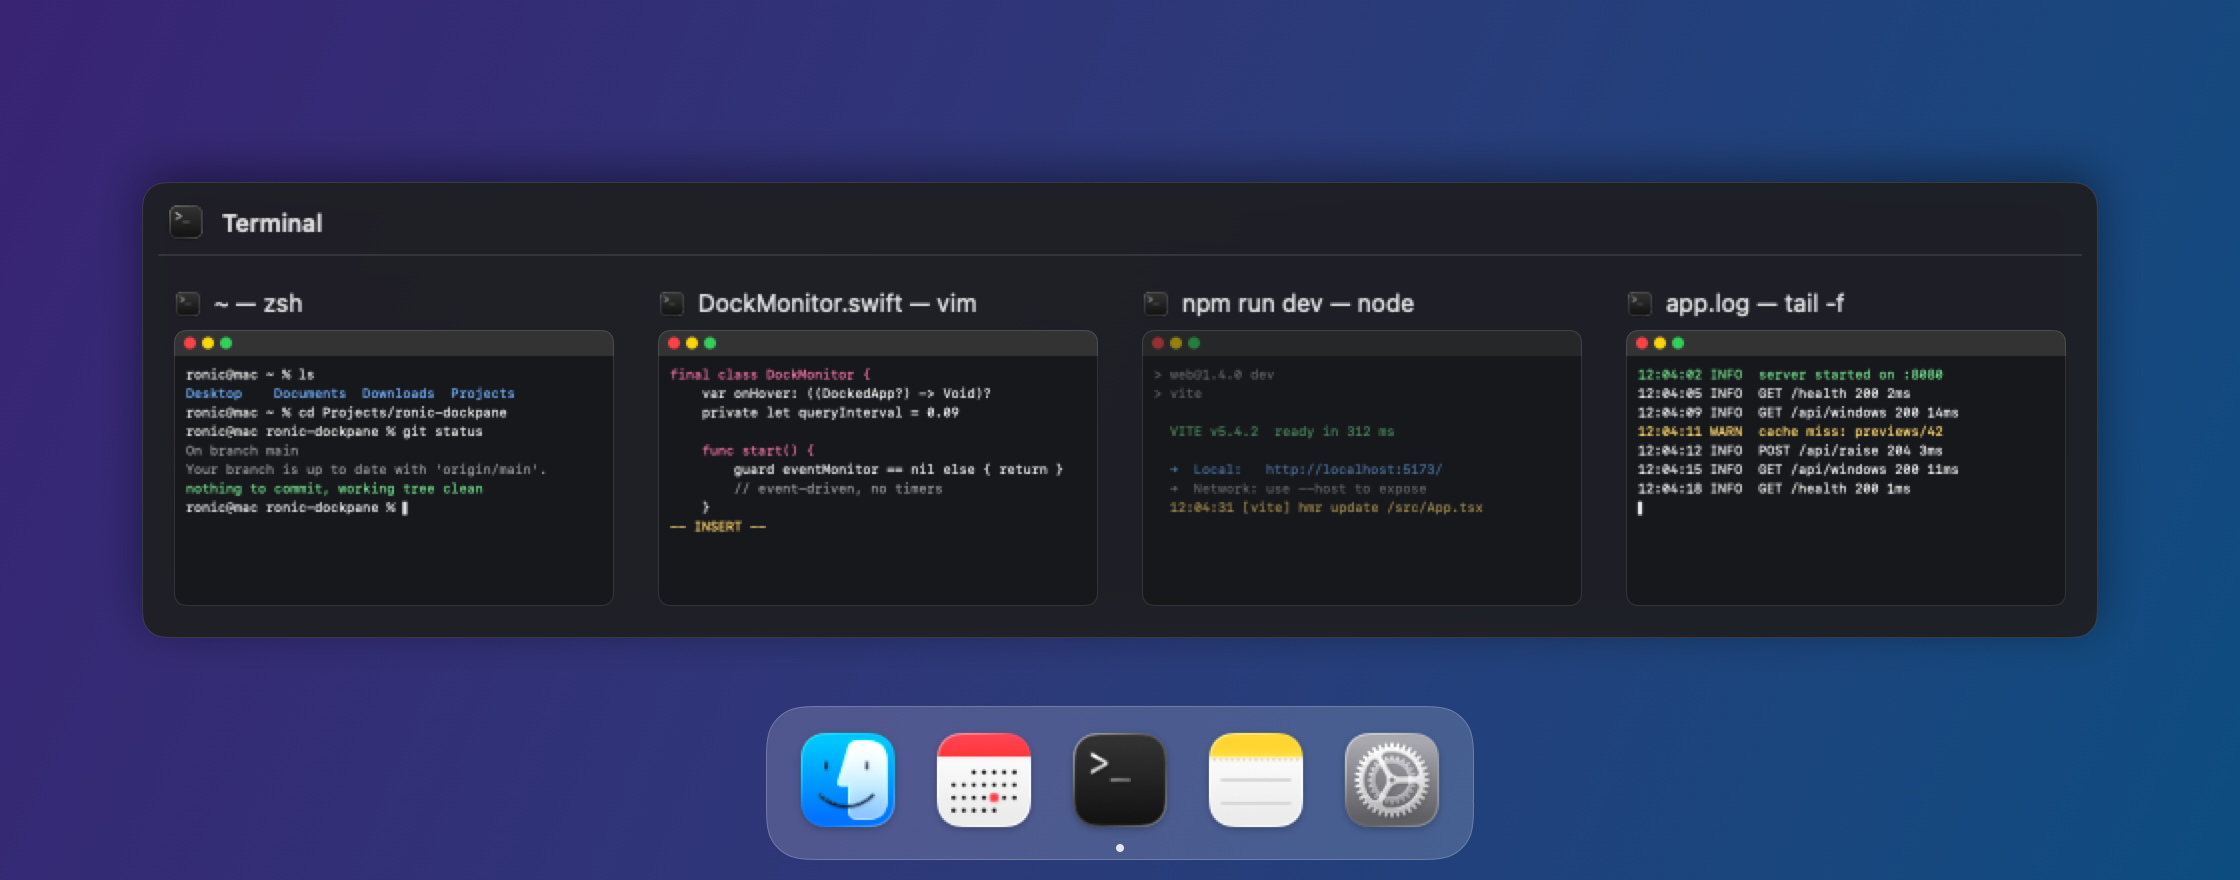
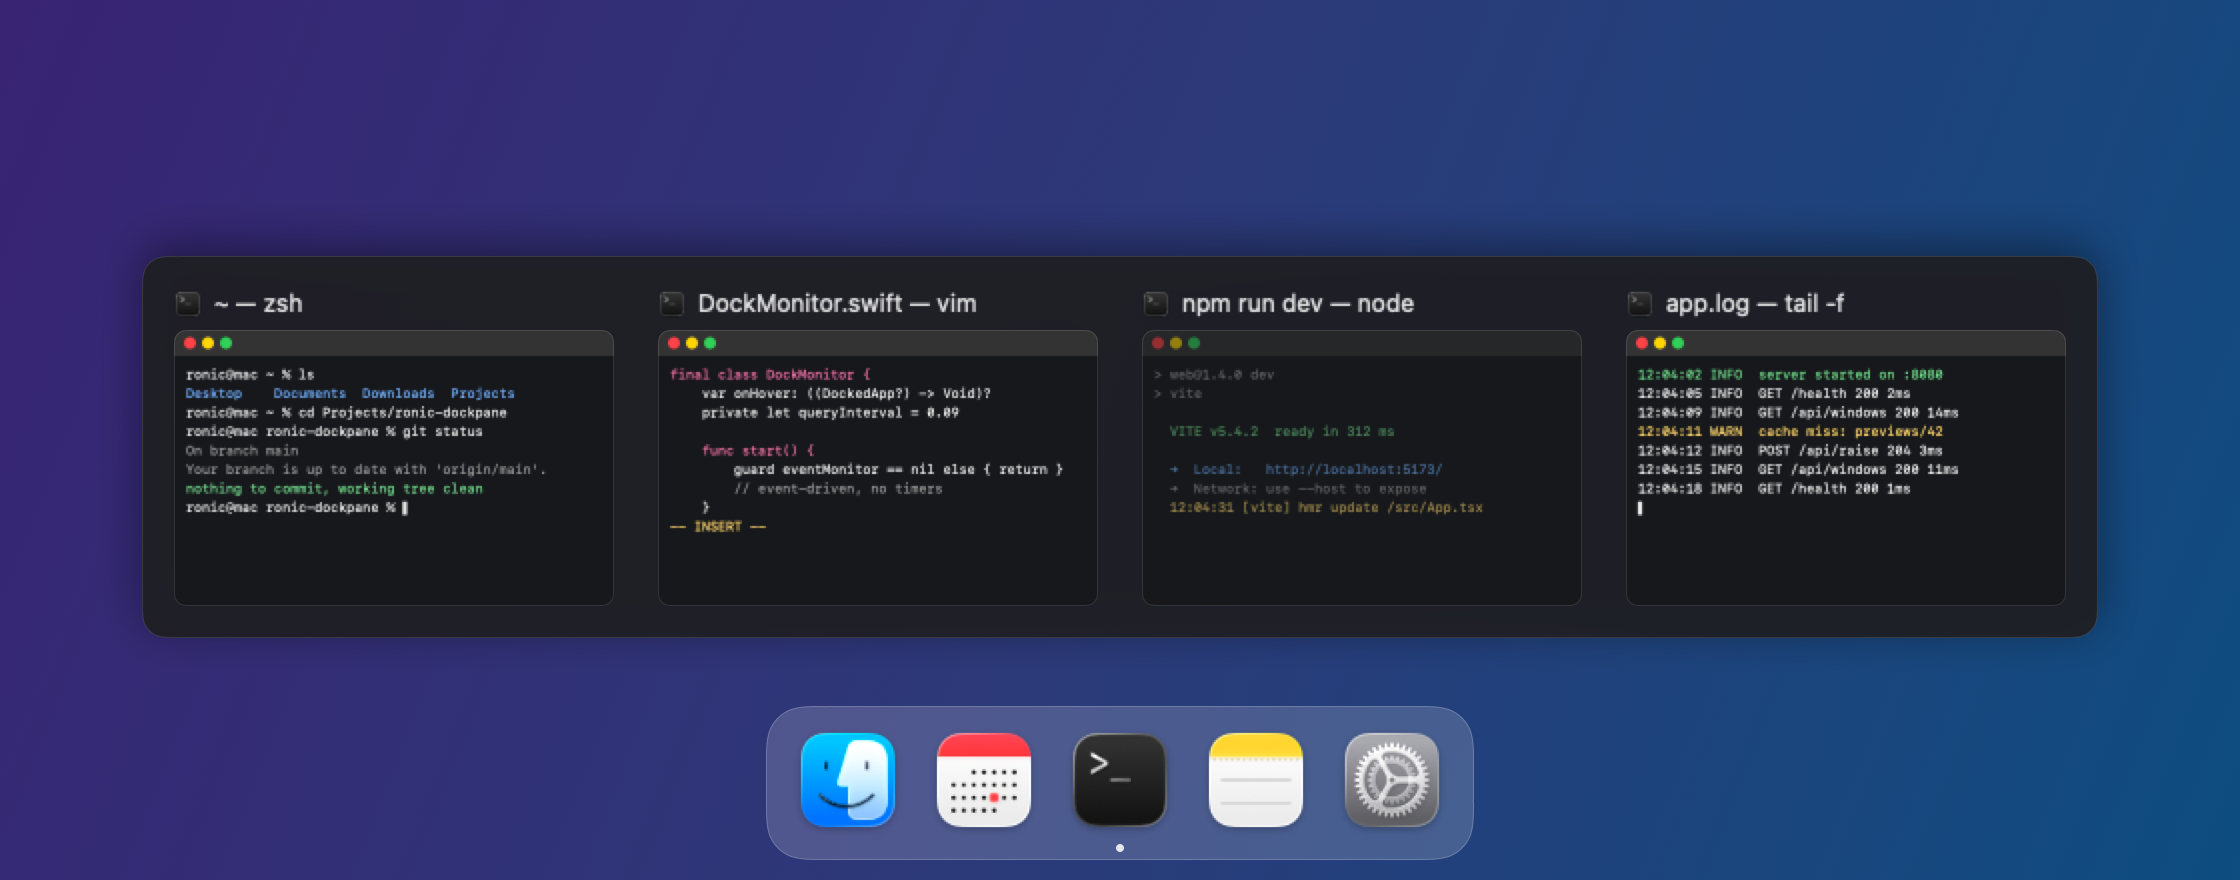
Ronic DockPane 0.2.5: remove o cabeçalho duplicado do painel de prévias
Cada cartão já mostra o ícone do app e o título da janela; o cabeçalho
com ícone + nome só aparece na lista simples (macOS 13).

Changed region(s): [[0.0625, 0.1841, 0.9375, 0.3068]]

diff --git a/Sources/DockPane/WindowListView.swift b/Sources/DockPane/WindowListView.swift
@@ -32,11 +32,12 @@ struct WindowListView: View {
 
     var body: some View {
         VStack(alignment: .leading, spacing: 0) {
-            header
-            Divider().padding(.horizontal, 8)
             if model.showPreviews {
+                // Each card already shows the app icon and the window title, so no header here.
                 cards
             } else {
+                header
+                Divider().padding(.horizontal, 8)
                 list
             }
         }
